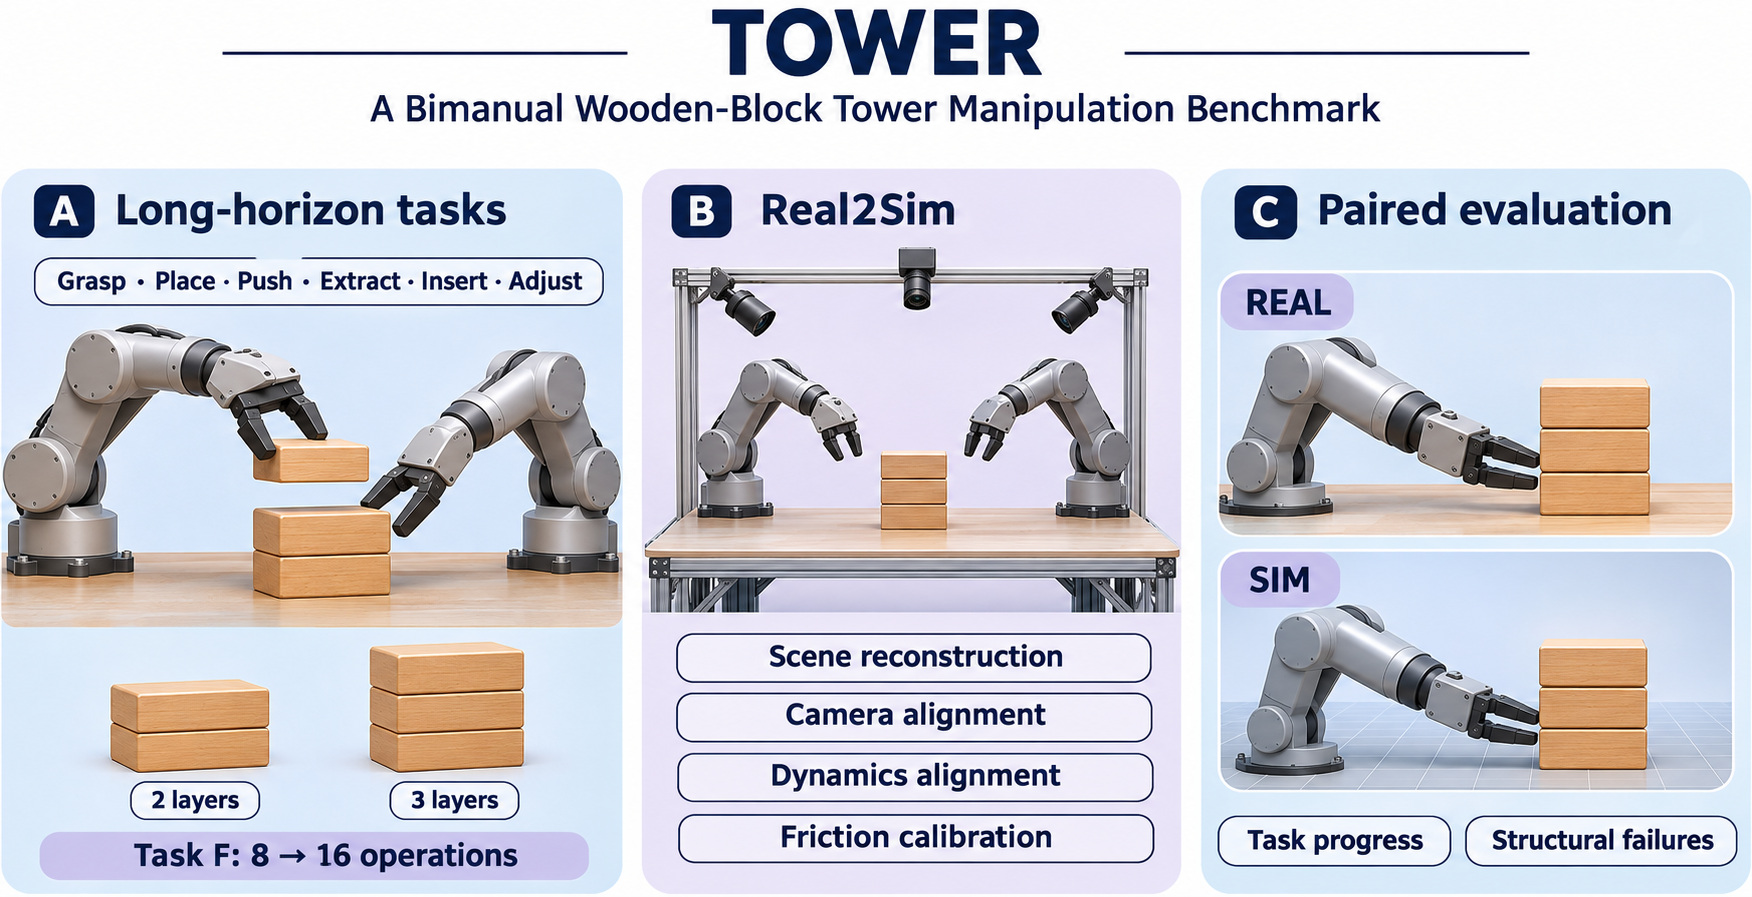
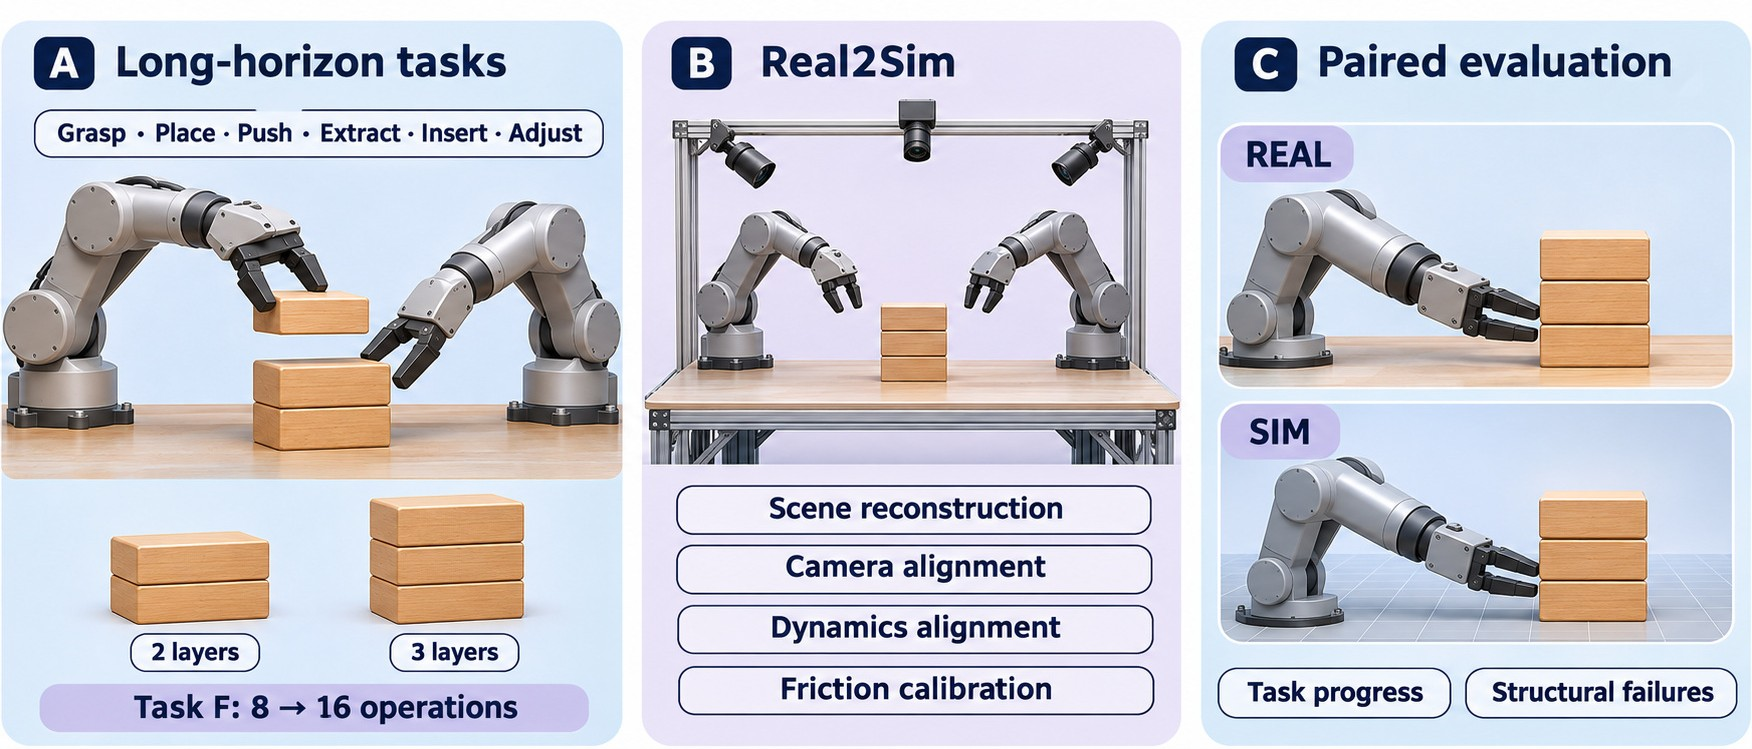
docs: drop the duplicate overview title and fix the structure table [skip ci]

diff --git a/README.md b/README.md
@@ -143,16 +143,16 @@ Use matching runtime and data identities. Package versions below are **developme
 
 ```text
 benchmarks/                 Task registries, protocols and data locks
-configs/                    Evaluation configuration
+configs/                    Alternative native-IK environment recipe
 packages/tower-sim/         Simulation runtime and benchmark scenes
 packages/nero-kinematics/   Kinematics and robot models
 src/tower-eval/             Policy interfaces, evaluation and scoring
-third_party/XPolicyLab/    Pinned policy-serving integration
+third_party/XPolicyLab/     Pinned policy-serving integration
 reproduction/paper_metrics/ Paper metric reference implementation
-scripts/                   Development and validation utilities
-tools/                     Simulator and benchmark command-line tools
-tests/                     Integration, contract and documentation tests
-docs/                      Guides and reference documentation
+scripts/                    Development and validation utilities
+tools/                      Simulator and benchmark command-line tools
+tests/                      Integration, contract and documentation tests
+docs/                       Guides and reference documentation
 ```
 
 ## Paper
